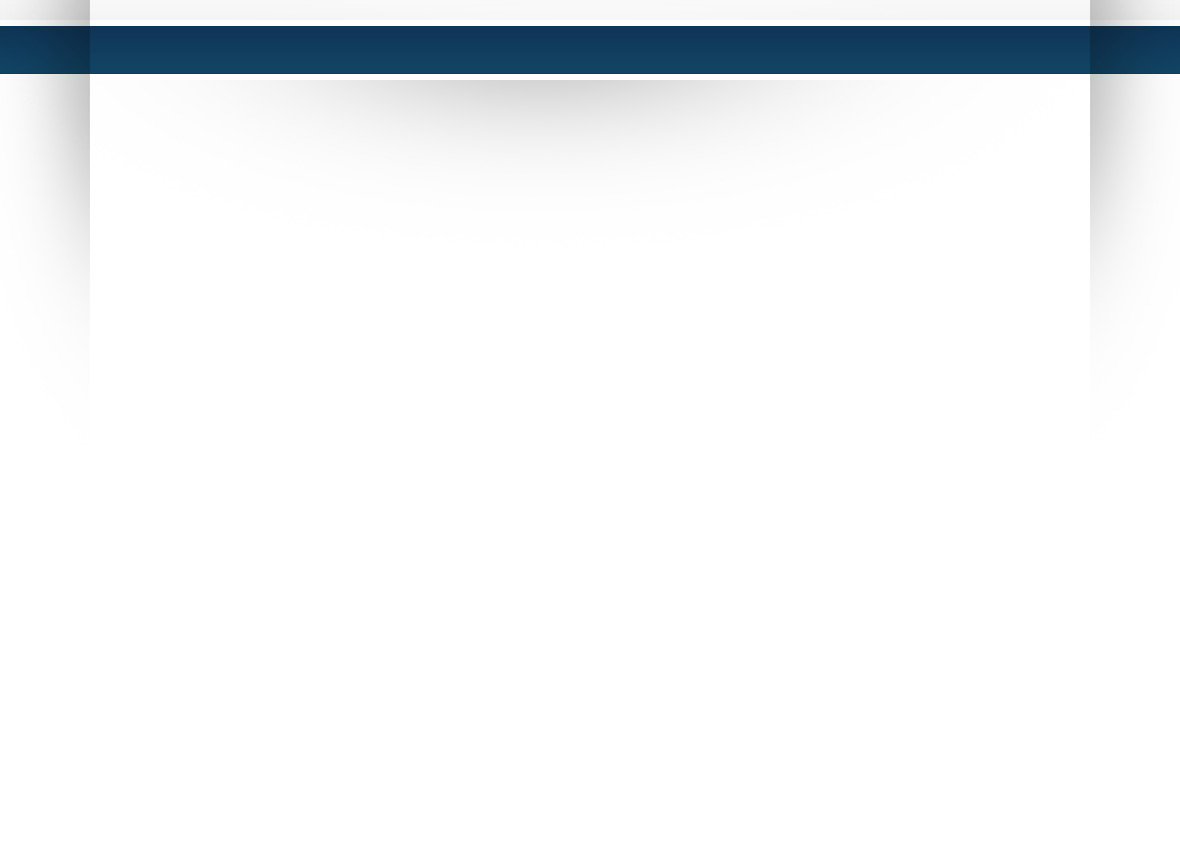
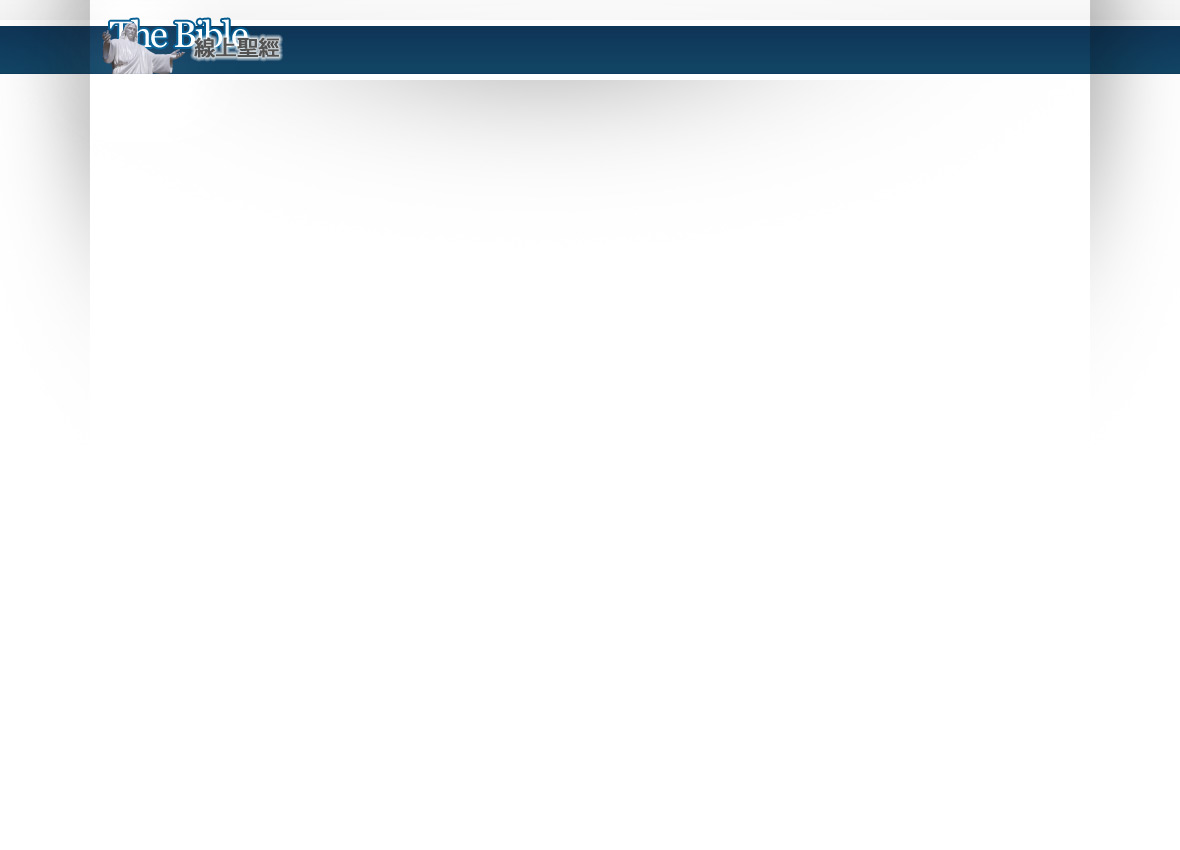
scrollbar已初步可運作

Changed region(s): [[0.061, 0.0, 0.2441, 0.0918]]

diff --git a/layout_main/css/default.css b/layout_main/css/default.css
@@ -261,6 +261,8 @@ ul.style3 li {
 
 /** MENU */
 
+.logo{ text-indent:-3000px;height:100%;width:200px;display:block;float:left; }
+
 .midnav{ position:relative;width:1000px;margin:0 auto;height:54px; }
 .midnav .prev{
     float:right;width:30px;height:48px;background:url(../images/bg3_left.jpg) center center;cursor:pointer;margin-top:6px;
@@ -270,31 +272,45 @@ ul.style3 li {
 }
 
 .scroll-bar-wrap{
-    float:right;
-    width:290px;
+    position:absolute;
+    right:20px;
+    top:60px;
+    width:240px;
+    height:30px;
 }
+.scroll-bar{
+    clear: both;
+    height:100%;
+    background:red;
+}
+.scroll-bar .ui-handle-helper-parent { position: relative; background:blue; width: 100%; height: 30px; margin: 0 auto; }
+.scroll-bar .ui-slider-handle { display:block; position:absolute; background:green; top:3px; height: 24px; }
+.scroll-bar .ui-slider-handle .ui-icon { margin: -8px auto 0; position: relative; top: 50%; }
+
+/* Corner radius */
+.ui-corner-all, .ui-corner-top, .ui-corner-left, .ui-corner-tl { -moz-border-radius-topleft: 4px/*{cornerRadius}*/; -webkit-border-top-left-radius: 4px/*{cornerRadius}*/; -khtml-border-top-left-radius: 4px/*{cornerRadius}*/; border-top-left-radius: 4px/*{cornerRadius}*/; }
+.ui-corner-all, .ui-corner-top, .ui-corner-right, .ui-corner-tr { -moz-border-radius-topright: 4px/*{cornerRadius}*/; -webkit-border-top-right-radius: 4px/*{cornerRadius}*/; -khtml-border-top-right-radius: 4px/*{cornerRadius}*/; border-top-right-radius: 4px/*{cornerRadius}*/; }
+.ui-corner-all, .ui-corner-bottom, .ui-corner-left, .ui-corner-bl { -moz-border-radius-bottomleft: 4px/*{cornerRadius}*/; -webkit-border-bottom-left-radius: 4px/*{cornerRadius}*/; -khtml-border-bottom-left-radius: 4px/*{cornerRadius}*/; border-bottom-left-radius: 4px/*{cornerRadius}*/; }
+.ui-corner-all, .ui-corner-bottom, .ui-corner-right, .ui-corner-br { -moz-border-radius-bottomright: 4px/*{cornerRadius}*/; -webkit-border-bottom-right-radius: 4px/*{cornerRadius}*/; -khtml-border-bottom-right-radius: 4px/*{cornerRadius}*/; border-bottom-right-radius: 4px/*{cornerRadius}*/; }
 
 #menu-container {
-    float:left;
-	width:700px;
+    float:right;
+	width:780px;
 	height:54px;
 }
 
 #menu {
     overflow:hidden;
     position:relative;
-    width: 680px;
+    width: 6000px;
 	height: 40px;
 	padding-top: 14px;
 	_padding-top: 0px;
 	_margin-top: 14px;
-	margin-left:10px;
+	margin-left:0px;
 }
 
 #menu ul {
-    position:absolute;
-    width:6430px;
-	margin: 0px;
 	padding: 0px;
 	list-style: none;
 	line-height: normal;

diff --git a/javascript=init.php b/javascript=init.php
@@ -15,14 +15,13 @@ $(document).ready( function(){
             href:url
         });
     });
-    $('.bookNav').append('<div id="chapter-guide"></div>');
 });
 
-function scrollbar(){
+$( function(){
 	//scrollpane parts
 	var scrollPane = $( "#menu-container" ),
 		scrollContent = $( "#menu" );
-	
+
 	//build slider
 	var scrollbar = $( ".scroll-bar" ).slider({
 		slide: function( event, ui ) {
@@ -38,15 +37,9 @@ function scrollbar(){
 	
 	//append icon to handle
 	var handleHelper = scrollbar.find( ".ui-slider-handle" )
-	.mousedown(function() {
-		scrollbar.width( handleHelper.width() );
-	})
-	.mouseup(function() {
-		scrollbar.width( "100%" );
-	})
 	.append( "<span class='ui-icon ui-icon-grip-dotted-vertical'></span>" )
 	.wrap( "<div class='ui-handle-helper-parent'></div>" ).parent();
-	
+	 
 	//change overflow to hidden now that slider handles the scrolling
 	scrollPane.css( "overflow", "hidden" );
 	
@@ -55,11 +48,13 @@ function scrollbar(){
 		var remainder = scrollContent.width() - scrollPane.width();
 		var proportion = remainder / scrollContent.width();
 		var handleSize = scrollPane.width() - ( proportion * scrollPane.width() );
+		handleSize = 30;
 		scrollbar.find( ".ui-slider-handle" ).css({
 			width: handleSize,
 			"margin-left": -handleSize / 2
 		});
-		handleHelper.width( "" ).width( scrollbar.width() - handleSize );
+		
+		handleHelper.width( scrollbar.width() - handleSize );
 	}
 	
 	//reset slider value based on scroll content position
@@ -88,4 +83,4 @@ function scrollbar(){
 	});
 	//init scrollbar size
 	setTimeout( sizeScrollbar, 10 );//safari wants a timeout
-}
+} );

diff --git a/tpl_metadata.php b/tpl_metadata.php
@@ -26,7 +26,7 @@ if( isset($selectIndex) && is_numeric($selectIndex) ){
 <script type="text/javascript" src="<?php echo layout_url('main', '/js/jcarousel.lite.js'); ?>"></script>
 
 <script type="text/javascript" src="<?php echo layout_url('main', '/js/jquery.ui.core.js'); ?>"></script>
-<script type="text/javascript" src="<?php echo layout_url('main', '/js/jquery.ui.mouse.js'); ?>"></script>
+<script type="text/javascript" src="<?php echo layout_url('main', '/js/jquery.ui.widget.js'); ?>"></script>
 <script type="text/javascript" src="<?php echo layout_url('main', '/js/jquery.ui.mouse.js'); ?>"></script>
 <script type="text/javascript" src="<?php echo layout_url('main', '/js/jquery.ui.slider.js'); ?>"></script>
 

diff --git a/tpl_mainmenu.php b/tpl_mainmenu.php
@@ -1,6 +1,10 @@
 <?php include('cache/bible_info.php'); ?>
+<style>
 
+</style>
             <div class="midnav">
+                <a class="logo" href="<?php echo url('/'); ?>">The Bible 線上聖經</a>
+    			
     			<div id="menu-container">
     				<div id="menu">
     					<ul>
@@ -38,8 +42,6 @@ foreach( $bibleFull as $id=>$name ){
     				</div>
     			</div>
     			<div class="scroll-bar-wrap ui-widget-content ui-corner-bottom"> 
-                    <div class="next"></div>
-                    <div class="prev"></div>
                     <div class="scroll-bar"></div> 
                 </div>
 			</div>

diff --git a/tpl_topnav.php b/tpl_topnav.php
@@ -1,12 +1,6 @@
 
 			<div id="topnav" style="font-family: Arial;">
                 <div class="float-left">
-                    <a href="<?php echo url('/'); ?>" class="home">The Bible 線上聖經首頁</a>
-                    <span>|</span>
-                    <a href="http://www.jbride.cc">JBride 資訊站</a>
-                    <span class="mlsite">
-                    <a href="http://www.morninglight.cc">晨光青年網 - 解開人生的根本問題</a>
-                    </span>
                 </div>
                 <div class="float-right">
                     繁體中文

diff --git a/tpl_footer.php b/tpl_footer.php
@@ -1,6 +1,9 @@
 
 			<div id="footer" class="container" style="font-family: Arial;position:relative;">
 				<p>版權所有 JBride 資訊站 © 2011 JBride.cc. All Rights Reserved. &nbsp;</p>
+                <span class="mlsite">
+                <a href="http://www.morninglight.cc">晨光青年網 - 解開人生的根本問題</a>
+                </span>
 			</div>
 		</div>
 	</div>
